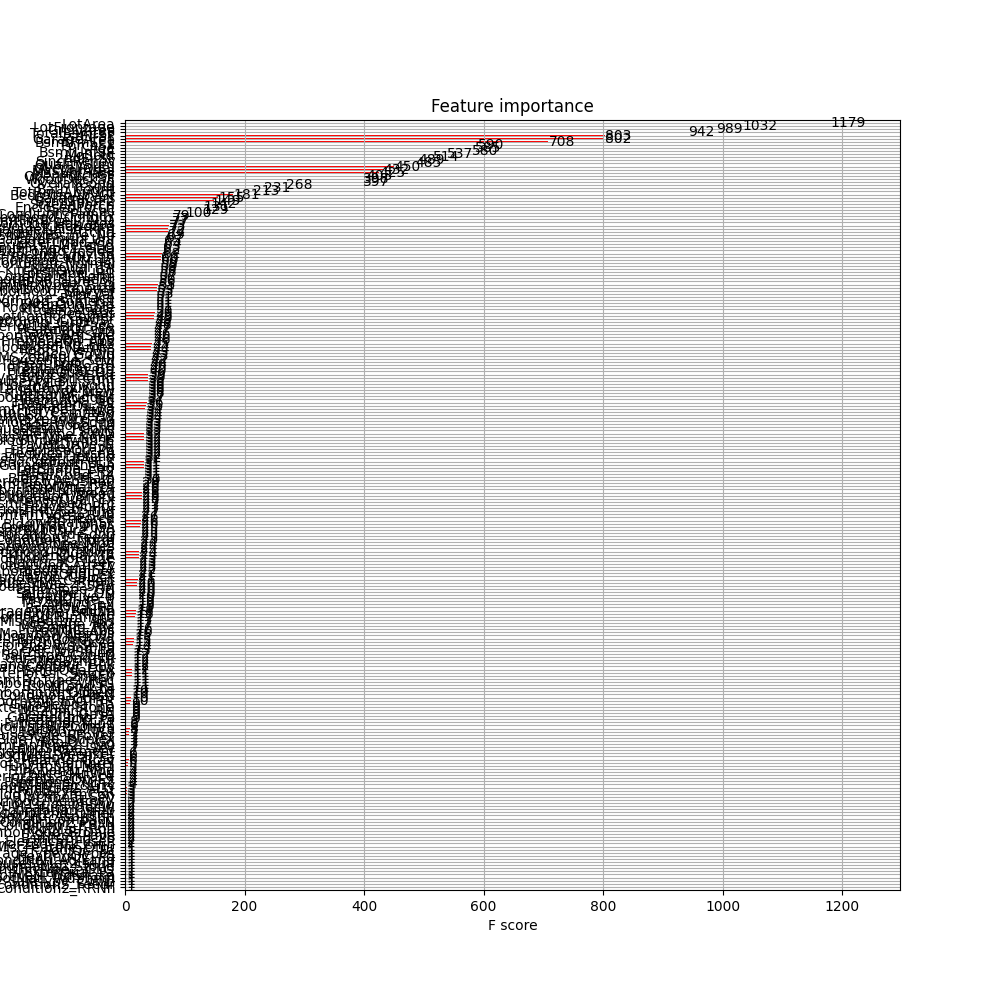
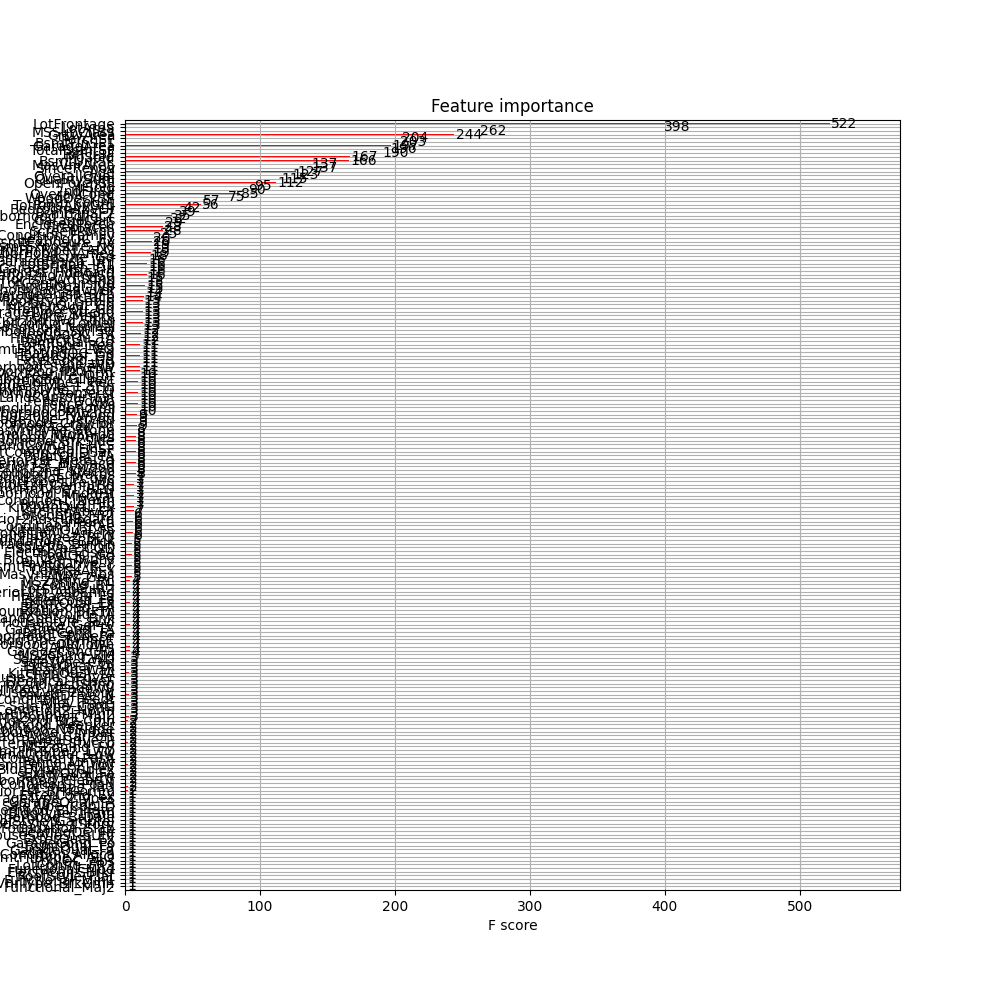
Shapley values for feature contribution

diff --git a/train.py b/train.py
@@ -4,6 +4,8 @@ import matplotlib.pyplot as plt
 plt.rcParams.update({'figure.max_open_warning': 0})
 import seaborn as sn
 
+import shap
+
 from sklearn.impute import SimpleImputer
 from sklearn import preprocessing 
 from sklearn import metrics
@@ -356,7 +358,7 @@ for i in data:
 			i.drop(col, axis=1, inplace=True)
 		except:
 			pass
-	i = i.rename({'OpenPorchSF': 'OpenPorch', 'WoodDeckSF': 'WoodDeck'}, axis=1)
+	#i = i.rename({'OpenPorchSF': 'OpenPorch', 'WoodDeckSF': 'WoodDeck'}, axis=1)
 
 #####ANALYZE CORRELATION BETWEEN FEATURES; REMOVE HIGH CORRELATION FEATURES
 high_corr, drop_corr = correlation_columns(train, 'SalePrice', 0.7, 0.95)
@@ -461,6 +463,14 @@ rf_reg.fit(x_train,y_train)
 Y_pred=rf_reg.predict(x_test)
 print('Accuracy Random Forest (RMSLE):',np.sqrt(metrics.mean_squared_log_error(np.expm1(y_test), np.expm1(Y_pred))))
 
+explainer = shap.Explainer(rf_reg)
+shap_values = explainer(x_train)
+f, ax = plt.subplots(figsize=(20, 10))
+shap.plots.beeswarm(shap_values, show=False)
+plt.savefig('graphs/RF_shapley.png')
+plt.close
+
+
 #####OPTIMIZED RANDOM FOREST REGRESSOR
 # estimator = RandomForestRegressor(
 # 	n_jobs=-1,
@@ -496,7 +506,7 @@ print('Accuracy Random Forest (RMSLE):',np.sqrt(metrics.mean_squared_log_error(n
 ## Optimized Random Forest Classifier: Optimized Random Forest Parameters: ('max_depth', 13), ('max_features', None), ('min_samples_leaf', 2), ('min_samples_split', 2), ('n_estimators', 3165)
 
 #####XGBoost REGRESSOR
-xg_reg = xgb.XGBRegressor(colsample_bytree = 0.3, learning_rate = 0.05,max_depth = 5, n_estimators = 1000)
+xg_reg = xgb.XGBRegressor(n_estimators = 1000)
 xg_reg.fit(x_train,y_train)
 Y_pred = xg_reg.predict(x_test)
 print('Accuracy XGBoost (RMSLE):',np.sqrt(metrics.mean_squared_log_error(np.expm1(y_test), np.expm1(Y_pred))))
@@ -525,7 +535,7 @@ plt.close
 #     'n_estimators': (5, 5000),
 # }
 
-# cv = KFold(n_splits=5, shuffle=True)
+# cv = KFold(n_splits=3, shuffle=True)
 # n_iterations = 100
 # bayes_cv_tuner = BayesSearchCV(
 #     estimator=estimator,
@@ -543,7 +553,7 @@ plt.close
 # print(xg_reg_opt.best_params_)
 # Y_pred = xg_reg_opt.predict(x_test)
 # print('Accuracy Optimized XGBoost (RMSLE):',np.sqrt(metrics.mean_squared_log_error(np.expm1(y_test), np.expm1(Y_pred))))
-## Best parameters XGBoost: ('colsample_bytree', 0.08652163908865458), ('eta', 0.29999999999999993), ('gamma', 0.0), ('learning_rate', 0.0296450572630713), ('max_depth', 3), ('min_child_weight', 4), ('n_estimators', 995)
+## Best parameters XGBoost: ('colsample_bytree', 0.08574871929990954), ('eta', 0.02496390391475763), ('gamma', 0.0), ('learning_rate', 0.01), ('max_depth', 2), ('min_child_weight', 5), ('n_estimators', 3641), ('reg_alpha', 1e-05), ('reg_lambda', 10.0), ('subsample', 0.7091974877458219)
 
 #####CatBoost REGRESSOR
 cb_reg = cbr.CatBoostRegressor(n_estimators = 1000)
@@ -581,7 +591,7 @@ print('Accuracy CatBoost (RMSLE):',np.sqrt(metrics.mean_squared_log_error(np.exp
 # print(cb_reg_opt.best_params_)
 # Y_pred = cb_reg_opt.predict(x_test)
 # print('Accuracy Optimized CatBoost (RMSLE):',np.sqrt(metrics.mean_squared_log_error(np.expm1(y_test), np.expm1(Y_pred))))
-## Best parameters: ('iterations', 1875), ('l2_leaf_reg', 30), ('learning_rate', 0.022068113971935165), ('max_depth', 3)
+## Best parameters: ('iterations', 2000), ('l2_leaf_reg', 9.891787470253881), ('learning_rate', 0.04348215118502706), ('max_depth', 4)
 
 #####PREDICT TEST DATA AND EXPORT FOR UPLOAD
 predict_export = pd.DataFrame()
